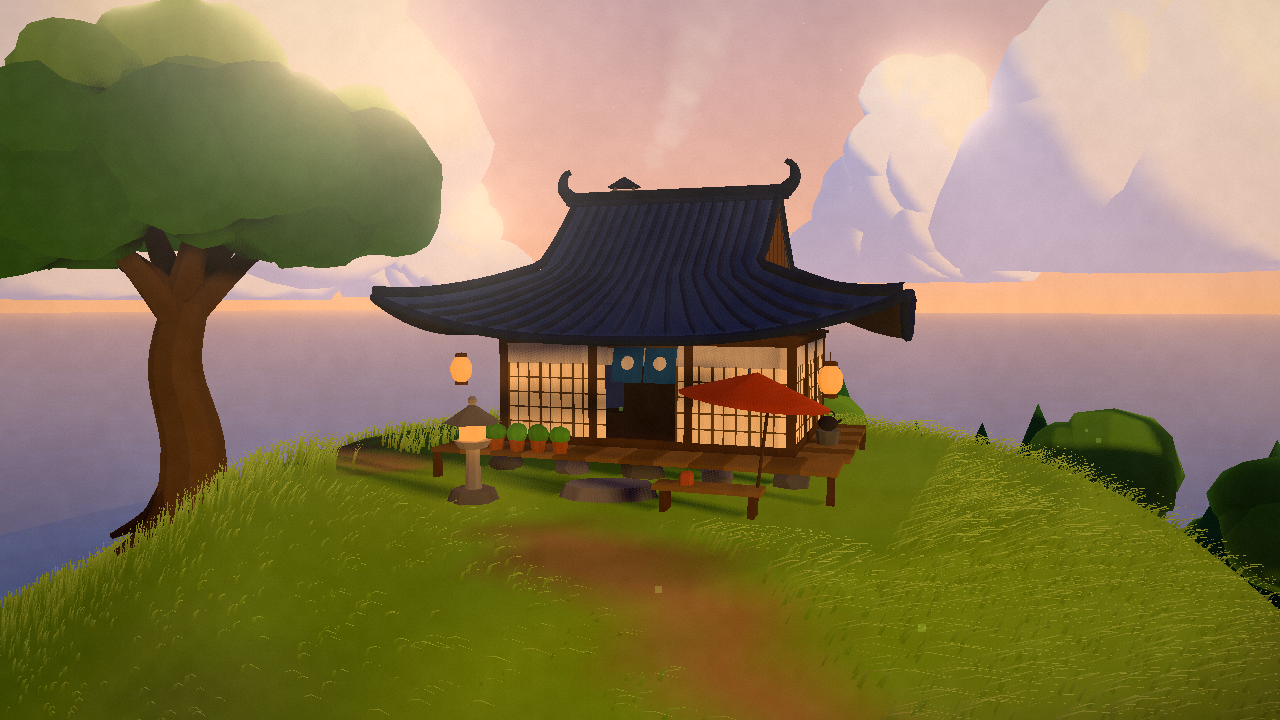
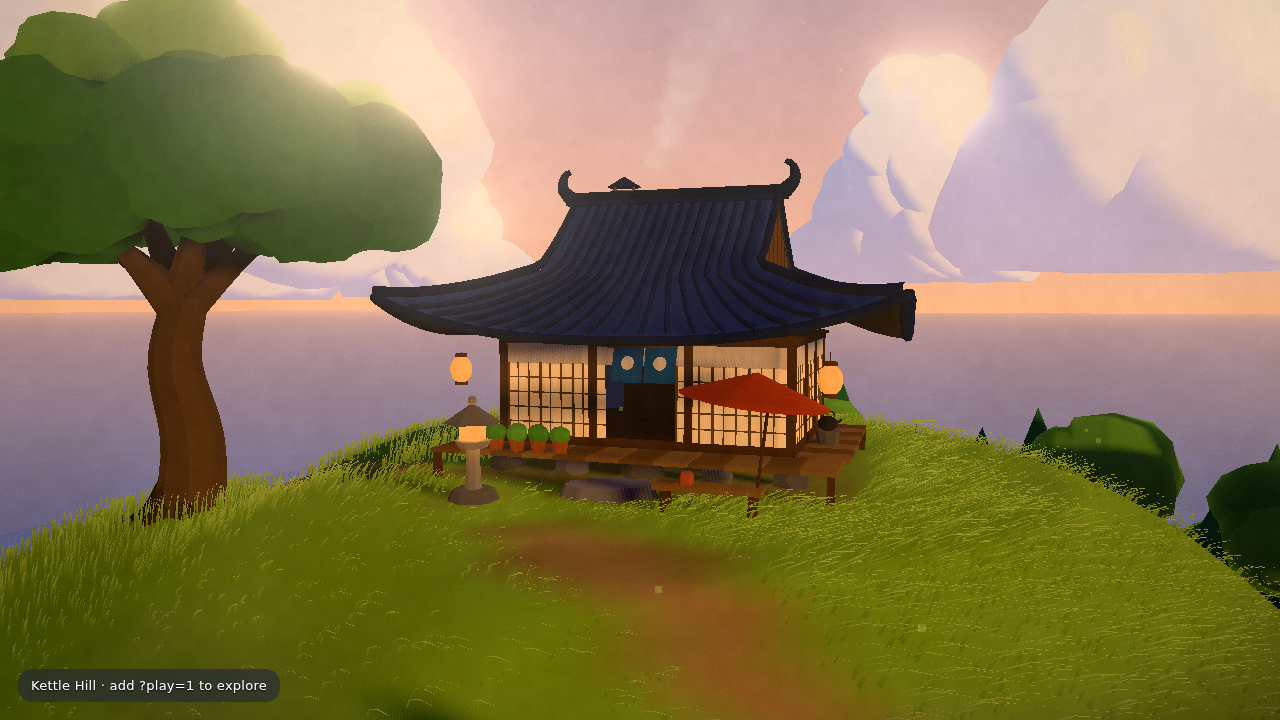
fix: soft grass fringe around tea house footprint; camphor tree planted on a knoll; trees sink to lowest ground

diff --git a/src/world/terrain.ts b/src/world/terrain.ts
@@ -13,6 +13,7 @@ const N = Math.round(WORLD / RES) + 1;
 const HALF = WORLD / 2;
 
 export const HOUSE = new THREE.Vector3(2, 0, -6); // y filled in at bake
+export const HOUSE_ROT = 0.12; // yaw of the tea house (radians)
 export const HERO_TREE = new THREE.Vector3(-11, 0, -1);
 export const LOOKOUT = new THREE.Vector3(-34, 0, -9);
 
@@ -82,22 +83,33 @@ function landform(x: number, z: number): number {
 export const heights = new Float32Array(N * N);
 const pathDist = new Float32Array(N * N);
 
+const KNOLL_IN = 2.5, KNOLL_OUT = 8, KNOLL_K = 0.8, KNOLL_DOME = 0.25;
+
 function idx(i: number, j: number) { return j * N + i; }
+
+/** Landform + the house plateau + the lookout shelf (before the tree knoll and paths). */
+function baseHeight(x: number, z: number): number {
+  let h = landform(x, z);
+  // Plateau for the tea house and garden.
+  const dh = Math.hypot((x - HOUSE.x) * 0.9, z - HOUSE.z);
+  h = lerp(h, HOUSE.y, smoothstep(15, 8, dh));
+  // Small flat lookout.
+  const dl = Math.hypot(x - LOOKOUT.x, z - LOOKOUT.z);
+  h = lerp(h, LOOKOUT.y, smoothstep(6, 3, dl));
+  return h;
+}
 
 function bake() {
   HOUSE.y = Math.round(landform(HOUSE.x, HOUSE.z) * 10) / 10;
   LOOKOUT.y = landform(LOOKOUT.x, LOOKOUT.z);
-  // Path centre heights (smoothed so the trail climbs evenly).
+  HERO_TREE.y = baseHeight(HERO_TREE.x, HERO_TREE.z);
   for (let j = 0; j < N; j++) {
     for (let i = 0; i < N; i++) {
       const x = -HALF + i * RES, z = -HALF + j * RES;
-      let h = landform(x, z);
-      // Plateau for the tea house and garden.
-      const dh = Math.hypot((x - HOUSE.x) * 0.9, z - HOUSE.z);
-      h = lerp(h, HOUSE.y, smoothstep(15, 8, dh));
-      // Small flat lookout.
-      const dl = Math.hypot(x - LOOKOUT.x, z - LOOKOUT.z);
-      h = lerp(h, LOOKOUT.y, smoothstep(6, 3, dl));
+      let h = baseHeight(x, z);
+      // The camphor tree sits on a soft, slightly domed knoll instead of a raw slope.
+      const dt = Math.hypot(x - HERO_TREE.x, z - HERO_TREE.z);
+      h = lerp(h, HERO_TREE.y + KNOLL_DOME * smoothstep(KNOLL_IN + 1.5, 0, dt), KNOLL_K * smoothstep(KNOLL_OUT, KNOLL_IN, dt));
       // Paths: soften cross-slope and wear a shallow groove.
       let pd = 99;
       if (Math.abs(x) < 70 && z > -30 && z < 70) {
@@ -206,13 +218,32 @@ export function surfaceAt(x: number, z: number): { color: THREE.Color; kind: Sur
     if (pathT > 0.5) kind = 'path';
   }
 
-  // Tea house footprint + porch: no grass.
-  const hx = Math.abs(x - HOUSE.x), hz = z - HOUSE.z;
-  if (hx < 6.6 && hz > -5.2 && hz < 7.2) grassiness *= 0.0;
+  // Tea house: clear grass only under the real footprint (body + veranda + step stone),
+  // in house space, with a soft trodden fringe instead of a hard square.
+  const dxh = x - HOUSE.x, dzh = z - HOUSE.z;
+  const cr = Math.cos(HOUSE_ROT), sr = Math.sin(HOUSE_ROT);
+  const lx = dxh * cr - dzh * sr, lz = dxh * sr + dzh * cr;
+  let sd = Math.min(
+    sdBox(lx, lz, 0, 0, 4.0, 3.2), // body + foundation stones
+    sdBox(lx, lz, 0, 3.6, 4.85, 0.85), // front engawa
+    sdBox(lx, lz, 4.25, 0, 0.7, 2.9), // side engawa
+  );
+  sd = Math.min(sd, Math.hypot((lx - 0) / 1.25, (lz - 4.95) / 0.85) - 0.9); // step stone
+  sd = Math.min(sd, Math.hypot(lx + 2.6, lz - 6.2) - 0.55); // stone lantern
+  if (sd < 1.2) {
+    grassiness *= smoothstep(-0.05, 0.75, sd);
+    // bare, shaded earth under the floor; trodden earth where people step up
+    tmpRock.copy(C.pathEdge).multiplyScalar(0.72);
+    c.lerp(tmpRock, smoothstep(0.4, -0.4, sd) * 0.85);
+  }
 
   return { color: c, kind, grassiness };
 }
 const tmpRock = new THREE.Color();
+function sdBox(x: number, z: number, cx: number, cz: number, hx: number, hz: number): number {
+  const qx = Math.abs(x - cx) - hx, qz = Math.abs(z - cz) - hz;
+  return Math.hypot(Math.max(qx, 0), Math.max(qz, 0)) + Math.min(Math.max(qx, qz), 0);
+}
 
 export function buildTerrain(): THREE.Mesh {
   const seg = 240;

diff --git a/src/main.ts b/src/main.ts
@@ -3,7 +3,7 @@ import { globalUniforms, toon } from './render/toon';
 import { createPost } from './render/post';
 import { dayState } from './world/daylight';
 import { createSky } from './world/sky';
-import { buildTerrain, heightAt, HOUSE, HERO_TREE, LOOKOUT, surfaceAt } from './world/terrain';
+import { buildTerrain, heightAt, HOUSE, HOUSE_ROT, HERO_TREE, LOOKOUT, surfaceAt } from './world/terrain';
 import { createSea } from './world/sea';
 import { createGrass } from './world/grass';
 import { createClouds } from './world/clouds';
@@ -81,7 +81,7 @@ scene.add(grass.mesh);
 
 const house = createTeaHouse();
 house.group.position.copy(HOUSE);
-house.group.rotation.y = 0.12;
+house.group.rotation.y = HOUSE_ROT;
 scene.add(house.group);
 const lanternLights: THREE.PointLight[] = [];
 for (const a of house.lightAnchors) {
@@ -91,8 +91,15 @@ for (const a of house.lightAnchors) {
   lanternLights.push(l);
 }
 
+/** Lowest ground under a footprint, so trunks never float on the downhill side. */
+function groundMin(x: number, z: number, r: number): number {
+  let y = heightAt(x, z);
+  for (let i = 0; i < 8; i++) { const a = (i / 8) * Math.PI * 2; y = Math.min(y, heightAt(x + Math.cos(a) * r, z + Math.sin(a) * r)); }
+  return y;
+}
+
 const hero = createHeroTree(7, 1.05);
-hero.position.set(HERO_TREE.x, heightAt(HERO_TREE.x, HERO_TREE.z) - 0.35, HERO_TREE.z);
+hero.position.set(HERO_TREE.x, groundMin(HERO_TREE.x, HERO_TREE.z, 1.2) - 0.2, HERO_TREE.z);
 hero.rotation.y = 0.8;
 scene.add(hero);
 
@@ -107,7 +114,7 @@ for (let i = 0; i < 400 && planted < 46; i++) {
   if (s.kind !== 'grass' || heightAt(x, z) < 1.5) continue;
   if (Math.hypot(x - HOUSE.x, z - HOUSE.z) < 16) continue;
   const t = createSmallTree(100 + i, rand() < 0.45 ? 'pine' : 'round');
-  t.position.set(x, heightAt(x, z) - 0.1, z);
+  t.position.set(x, groundMin(x, z, 0.5) - 0.08, z);
   t.rotation.y = rand() * 6.28;
   t.scale.setScalar(0.9 + rand() * 0.9);
   scene.add(t);
@@ -188,6 +195,8 @@ const presets: Record<string, [THREE.Vector3, THREE.Vector3]> = {
 };
 HERO_TREE.y = heightAt(HERO_TREE.x, HERO_TREE.z);
 presets.tree = [new THREE.Vector3(HERO_TREE.x + 13, HERO_TREE.y + 3, HERO_TREE.z + 17), new THREE.Vector3(HERO_TREE.x - 4, HERO_TREE.y + 5.5, HERO_TREE.z - 2)];
+// downhill side of the camphor tree, low: checks the trunk is planted
+presets.treelow = [new THREE.Vector3(HERO_TREE.x - 7, HERO_TREE.y + 0.6, HERO_TREE.z + 7), new THREE.Vector3(HERO_TREE.x, HERO_TREE.y + 1.6, HERO_TREE.z)];
 if (params.has('cp')) {
   const [a, b, c, d, e, f] = params.get('cp')!.split(',').map(Number);
   presets.custom = [new THREE.Vector3(a, b, c), new THREE.Vector3(d, e, f)];

diff --git a/src/world/grass.ts b/src/world/grass.ts
@@ -55,7 +55,7 @@ export function createGrass(count = 140000, radius = 78) {
     const y = heightAt(x, z);
     if (y < 0.3) continue;
     offsets.set([x, y - 0.02, z, rand() * Math.PI * 2], n * 4);
-    const tall = 0.35 + 0.5 * smoothstep(0.35, 0.75, clump) + rand() * 0.25;
+    const tall = (0.35 + 0.5 * smoothstep(0.35, 0.75, clump) + rand() * 0.25) * (0.45 + 0.55 * surf.grassiness);
     shape.set([tall, 0.05 + rand() * 0.04, (rand() - 0.5) * 0.5], n * 3);
     colors.set([surf.color.r, surf.color.g, surf.color.b], n * 3);
     n++;
